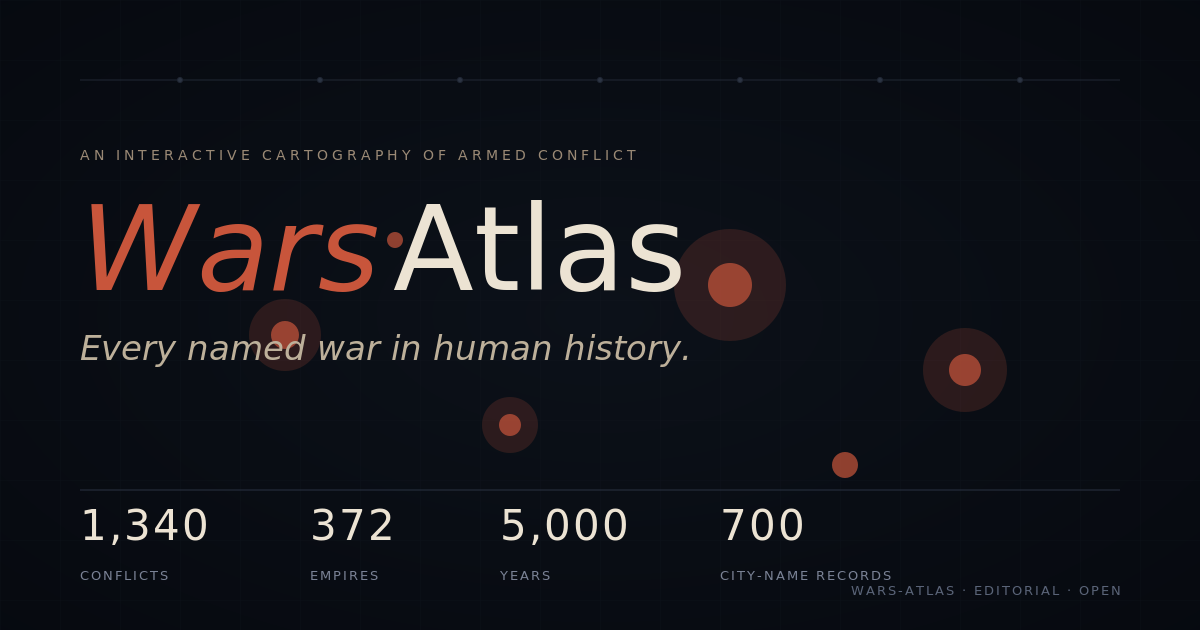
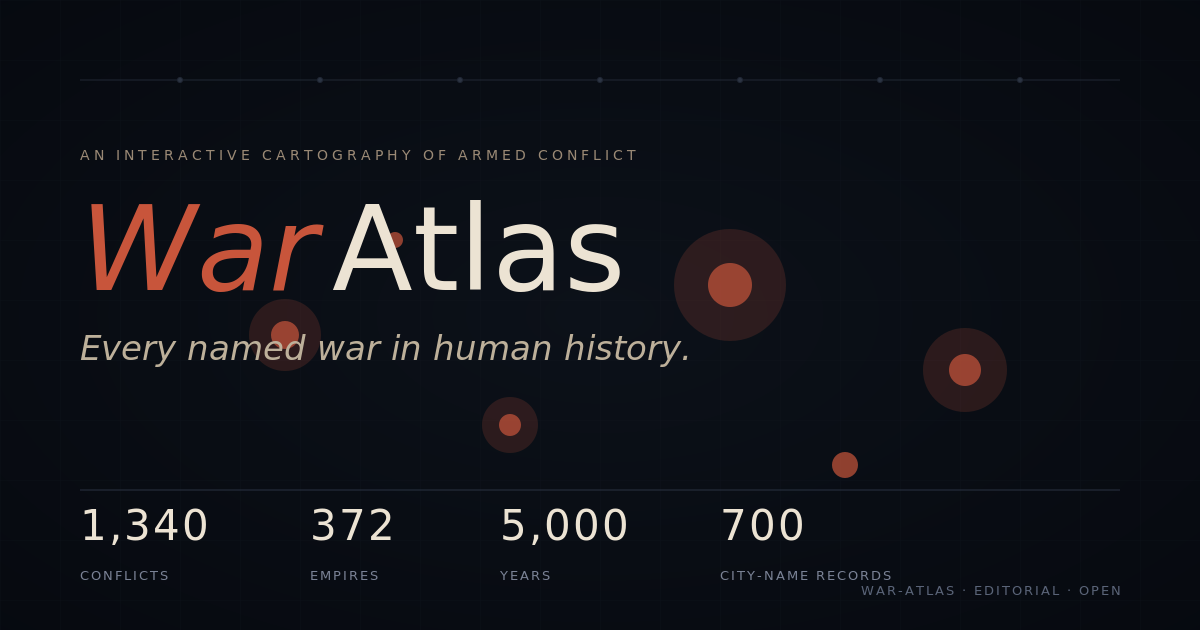
Rename Wars Atlas → War Atlas everywhere (incl. OG card); restore mobile conflict callouts (cap 3, skip-on-overlap)

Changed region(s): [[0.2467, 0.3016, 0.5858, 0.4825], [0.7092, 0.9349, 0.74, 0.9651]]

diff --git a/components/InfoBoxLayer.tsx b/components/InfoBoxLayer.tsx
@@ -139,47 +139,20 @@ export default function InfoBoxLayer({
       clusters.push({ primary: item.conflict, count, screen: item.screen });
     }
 
-    // Limit visible boxes. On mobile (narrow viewport) the callouts have
-    // no room to lay out without overlapping each other on top of the dots
-    // they label — so we show NONE except for the currently-selected
-    // conflict. Mobile users browse via the conflict markers themselves
-    // and the sidebar; the callouts are a desktop-only affordance.
+    // Limit visible boxes. On mobile we cap at 3 — the screen is narrow
+    // and the boxes are 230px wide, so showing more would stack them on
+    // top of each other. The skip-on-overlap pass below ensures we never
+    // end up with visually overlapping callouts even at the cap.
     const isMobile = screenW < 640;
     const maxBoxes = isMobile
-      ? (selectedId ? 1 : 0)
+      ? 3
       : zoom > 5 ? 12 : zoom > 3 ? 8 : 6;
     let visibleClusters = clusters.slice(0, maxBoxes);
 
     // If a conflict is selected but didn't make the cut, force-add it.
-    // Also: on mobile, REPLACE visibleClusters entirely with just the
-    // selected conflict so the user sees one clean callout, not whichever
-    // happened to top-rank by displayPriority.
     if (selectedId) {
       const selectedInVisible = visibleClusters.some(cl => cl.primary.id === selectedId);
-      if (isMobile) {
-        // Mobile: only the selected one, period.
-        const selectedCluster = clusters.find(cl => cl.primary.id === selectedId);
-        if (selectedCluster) {
-          visibleClusters = [selectedCluster];
-        } else {
-          const selProj = projected.find(p => p.conflict.id === selectedId);
-          if (selProj) {
-            visibleClusters = [{ primary: selProj.conflict, count: 1, screen: selProj.screen }];
-          } else {
-            const selConflict = conflicts.find(c => c.id === selectedId);
-            if (selConflict) {
-              const pos = mapRef.project(selConflict.coordinates);
-              if (pos && pos.x > -50 && pos.x < screenW + 50 && pos.y > -50 && pos.y < screenH + 50) {
-                visibleClusters = [{ primary: selConflict, count: 1, screen: pos }];
-              } else {
-                visibleClusters = [];
-              }
-            } else {
-              visibleClusters = [];
-            }
-          }
-        }
-      } else if (!selectedInVisible) {
+      if (!selectedInVisible) {
         const selectedCluster = clusters.find(cl => cl.primary.id === selectedId);
         if (selectedCluster) {
           visibleClusters.push(selectedCluster);

diff --git a/app/layout.tsx b/app/layout.tsx
@@ -40,28 +40,28 @@ const SITE_URL = process.env.NEXT_PUBLIC_BASE_URL || 'https://wars-atlas.example
 
 export const metadata: Metadata = {
   metadataBase: new URL(SITE_URL),
-  title: 'Wars Atlas — Every Named War in Human History',
+  title: 'War Atlas — Every Named War in Human History',
   description: `An interactive cartography of ${STAT_CONFLICTS} recorded military conflicts across 5,000 years of human history, with ${STAT_EMPIRES} historical empire borders, casualty estimate ranges, and era-by-era timeline navigation.`,
   keywords: ['wars', 'military history', 'conflicts', 'interactive map', 'world history', 'atlas', 'battles', 'empires'],
-  authors: [{ name: 'Wars Atlas' }],
+  authors: [{ name: 'War Atlas' }],
   openGraph: {
-    title: 'Wars Atlas — Every Named War in Human History',
+    title: 'War Atlas — Every Named War in Human History',
     description: `Explore 5,000 years of conflict on an interactive world map. ${STAT_CONFLICTS} wars, ${STAT_EMPIRES} empire borders with shifting frontiers, casualty estimates with sources.`,
     type: 'website',
-    siteName: 'Wars Atlas',
+    siteName: 'War Atlas',
     locale: 'en_US',
     url: '/',
     images: [
       // PNG primary for maximum platform compatibility (LinkedIn, older Twitter
       // renderers); SVG kept as a secondary so vector-aware platforms get a
       // sharper render. Both are 1200×630.
-      { url: '/og-image.png', width: 1200, height: 630, alt: 'Wars Atlas — interactive map of every named war in human history', type: 'image/png' },
-      { url: '/og-image.svg', width: 1200, height: 630, alt: 'Wars Atlas — interactive map of every named war in human history', type: 'image/svg+xml' },
+      { url: '/og-image.png', width: 1200, height: 630, alt: 'War Atlas — interactive map of every named war in human history', type: 'image/png' },
+      { url: '/og-image.svg', width: 1200, height: 630, alt: 'War Atlas — interactive map of every named war in human history', type: 'image/svg+xml' },
     ],
   },
   twitter: {
     card: 'summary_large_image',
-    title: 'Wars Atlas — Every Named War in Human History',
+    title: 'War Atlas — Every Named War in Human History',
     description: `Explore ${STAT_CONFLICTS} wars and ${STAT_EMPIRES} empires across 5,000 years on an interactive world map.`,
     images: ['/og-image.png'],
   },

diff --git a/components/AboutModal.tsx b/components/AboutModal.tsx
@@ -39,7 +39,7 @@ export default function AboutModal({ open, onClose }: AboutModalProps) {
         {/* Header */}
         <div className="sticky top-0 z-10 bg-wars-panel/95 backdrop-blur-sm border-b border-wars-border px-6 py-4 flex items-start justify-between">
           <div>
-            <h2 id="about-title" className="text-xl font-bold text-wars-text">About Wars Atlas</h2>
+            <h2 id="about-title" className="text-xl font-bold text-wars-text">About War Atlas</h2>
             <p className="text-xs text-wars-muted mt-0.5">
               An interactive history of armed conflict
             </p>
@@ -230,7 +230,7 @@ export default function AboutModal({ open, onClose }: AboutModalProps) {
           {/* Citation */}
           <Section heading="Citing or embedding">
             <p>
-              Wars Atlas is a work in progress and not yet a stable scholarly resource. If you cite
+              War Atlas is a work in progress and not yet a stable scholarly resource. If you cite
               it, please include the URL and a date, and prefer the underlying Wikipedia / Natural
               Earth / Clodfelter sources for the actual claims. We expect to publish a versioned
               dataset and methodology paper in a future release.
@@ -262,7 +262,7 @@ export default function AboutModal({ open, onClose }: AboutModalProps) {
 
           {/* Footer */}
           <div className="pt-4 border-t border-wars-border/50 text-xs text-wars-muted/70">
-            Wars Atlas is a research preview. Numbers, names, and borders shown here are not the
+            War Atlas is a research preview. Numbers, names, and borders shown here are not the
             last word — please verify against primary sources before citing.
           </div>
         </div>

diff --git a/app/c/[id]/page.tsx b/app/c/[id]/page.tsx
@@ -42,8 +42,8 @@ export async function generateMetadata({ params }: { params: { id: string } }): 
   const conflict = findConflict(params.id);
   if (!conflict) {
     return {
-      title: 'Conflict not found · Wars Atlas',
-      description: 'This conflict could not be found in the Wars Atlas dataset.',
+      title: 'Conflict not found · War Atlas',
+      description: 'This conflict could not be found in the War Atlas dataset.',
     };
   }
   const yearRange =
@@ -54,7 +54,7 @@ export async function generateMetadata({ params }: { params: { id: string } }): 
     conflict.hook ?? conflict.description ?? `Conflict in ${yearRange}.`;
   const description = summary.length > 200 ? summary.slice(0, 197) + '...' : summary;
 
-  const title = `${conflict.name} (${yearRange}) · Wars Atlas`;
+  const title = `${conflict.name} (${yearRange}) · War Atlas`;
   return {
     title,
     description,
@@ -62,7 +62,7 @@ export async function generateMetadata({ params }: { params: { id: string } }): 
       title,
       description,
       type: 'article',
-      siteName: 'Wars Atlas',
+      siteName: 'War Atlas',
     },
     twitter: {
       card: 'summary',
@@ -146,7 +146,7 @@ export default function ConflictPage({ params }: { params: { id: string } }) {
         )}
         <p style={{ marginTop: '2rem' }}>
           <a href={`/#year=${targetYear}&conflict=${conflict.id}`} style={{ color: '#e63946' }}>
-            View on the Wars Atlas →
+            View on the War Atlas →
           </a>
         </p>
         <p style={{ marginTop: '0.5rem', fontSize: '0.85em', color: '#666' }}>

diff --git a/public/sw.js b/public/sw.js
@@ -1,11 +1,14 @@
-// Wars Atlas service worker — caches data files and core JS bundle so the app
+// War Atlas service worker — caches data files and core JS bundle so the app
 // works offline once visited. We deliberately do NOT shrink the data files
 // (preserving every empire / conflict / city record) — instead we cache them
 // aggressively after first load.
 
 // Bump CACHE_NAME on every deploy that changes any cached data file. The
 // activate handler below garbage-collects old `wars-atlas-*` caches.
-const CACHE_NAME = 'wars-atlas-v2';
+// Bumped to v3 alongside the "War Atlas" rename so old caches under the
+// previous name get garbage-collected on next visit. The activate handler
+// below kills any cache starting with `wars-atlas-` or older `war-atlas-`.
+const CACHE_NAME = 'war-atlas-v3';
 const DATA_URLS = [
   '/empires.json',
   '/cities.json',
@@ -30,7 +33,7 @@ self.addEventListener('activate', (event) => {
   event.waitUntil(
     caches.keys().then((keys) =>
       Promise.all(
-        keys.filter((k) => k !== CACHE_NAME && k.startsWith('wars-atlas-')).map((k) => caches.delete(k))
+        keys.filter((k) => k !== CACHE_NAME && (k.startsWith('wars-atlas-') || k.startsWith('war-atlas-'))).map((k) => caches.delete(k))
       )
     )
   );

diff --git a/components/TopBar.tsx b/components/TopBar.tsx
@@ -16,7 +16,7 @@ interface TopBarProps {
 /* ─────────────────────────────────────────────────────────────
  * TOPBAR — masthead style (step 6 of redesign).
  *
- * Wordmark: italic vermilion "Wars" + upright "Atlas" in
+ * Wordmark: italic vermilion "War" + upright "Atlas" in
  * Source Serif. Hairline rule + serif italic tagline beside it.
  *
  * Stats: labeled mini-stats (display-serif number + 9px
@@ -81,7 +81,7 @@ export default function TopBar({
             }}
           >
             <span style={{ fontStyle: 'italic', color: 'var(--vermilion)' }}>
-              Wars
+              War
             </span>
             <span style={{ marginLeft: 4 }}>Atlas</span>
           </h1>

diff --git a/app/error.tsx b/app/error.tsx
@@ -20,7 +20,7 @@ export default function GlobalRouteError({
 }) {
   useEffect(() => {
     // eslint-disable-next-line no-console
-    console.error('Wars Atlas: route error', error);
+    console.error('War Atlas: route error', error);
   }, [error]);
 
   return (
@@ -36,7 +36,7 @@ export default function GlobalRouteError({
         }}
       >
         <div className="font-display italic" style={{ color: 'var(--vermilion, #c8553b)', fontSize: 28, marginBottom: 12 }}>
-          Wars <span style={{ fontStyle: 'normal' }}>Atlas</span>
+          War <span style={{ fontStyle: 'normal' }}>Atlas</span>
         </div>
         <h2 className="font-display" style={{ fontSize: 18, marginBottom: 8 }}>
           The atlas hit an unexpected error

diff --git a/app/not-found.tsx b/app/not-found.tsx
@@ -2,7 +2,7 @@ import type { Metadata } from 'next';
 import Link from 'next/link';
 
 export const metadata: Metadata = {
-  title: 'Not found · Wars Atlas',
+  title: 'Not found · War Atlas',
   description: 'The page you are looking for is not in the atlas.',
 };
 
@@ -20,7 +20,7 @@ export default function NotFound() {
     >
       <div className="max-w-md w-full text-center">
         <div className="font-display italic mb-4" style={{ color: 'var(--vermilion, #c8553b)', fontSize: 28 }}>
-          Wars <span style={{ fontStyle: 'normal' }}>Atlas</span>
+          War <span style={{ fontStyle: 'normal' }}>Atlas</span>
         </div>
         <p
           className="font-mono mb-2"

diff --git a/app/page.tsx b/app/page.tsx
@@ -353,7 +353,7 @@ export default function Home() {
         <div className="absolute inset-0 z-50 bg-wars-bg flex items-center justify-center">
           <div className="text-center">
             <h1 className="text-2xl font-bold text-wars-text mb-2">
-              <span className="text-wars-red">Wars</span> Atlas
+              <span className="text-wars-red">War</span> Atlas
             </h1>
             <p className="text-sm text-wars-muted">Loading 5,000 years of history...</p>
             <div className="mt-4 w-32 h-1 bg-wars-border rounded-full mx-auto overflow-hidden">

diff --git a/components/OpeningTour.tsx b/components/OpeningTour.tsx
@@ -18,7 +18,7 @@ interface Stop {
 
 const STOPS: Stop[] = [
   {
-    year: null, title: 'Welcome to Wars Atlas', shortTitle: 'Start',
+    year: null, title: 'Welcome to War Atlas', shortTitle: 'Start',
     blurb: 'An interactive cartography of every named war in human history — 1,340 conflicts and 372 empires across 5,000 years. Scrub the timeline at the bottom to watch borders shift; click a polygon for empire detail, click a red dot for a conflict. This tour stops at nine turning points.',
     hold: 9,
   },

diff --git a/app/sources/page.tsx b/app/sources/page.tsx
@@ -2,9 +2,9 @@ import type { Metadata } from 'next';
 import Link from 'next/link';
 
 export const metadata: Metadata = {
-  title: 'Sources & attribution · Wars Atlas',
+  title: 'Sources & attribution · War Atlas',
   description:
-    'Where the Wars Atlas data comes from, what license each component is under, and how to file a correction.',
+    'Where the War Atlas data comes from, what license each component is under, and how to file a correction.',
 };
 
 const FEEDBACK_URL =

diff --git a/tailwind.config.ts b/tailwind.config.ts
@@ -1,7 +1,7 @@
 import type { Config } from 'tailwindcss'
 
 /**
- * Wars Atlas — design tokens carried back from the redesign handoff.
+ * War Atlas — design tokens carried back from the redesign handoff.
  * Source of truth lives in app/globals.css under :root (OKLCH values + CSS
  * vars for fonts/spacing/motion). Tailwind reads them here so utilities like
  * `bg-wars-bg`, `text-wars-text`, `font-display` resolve to the same values.
